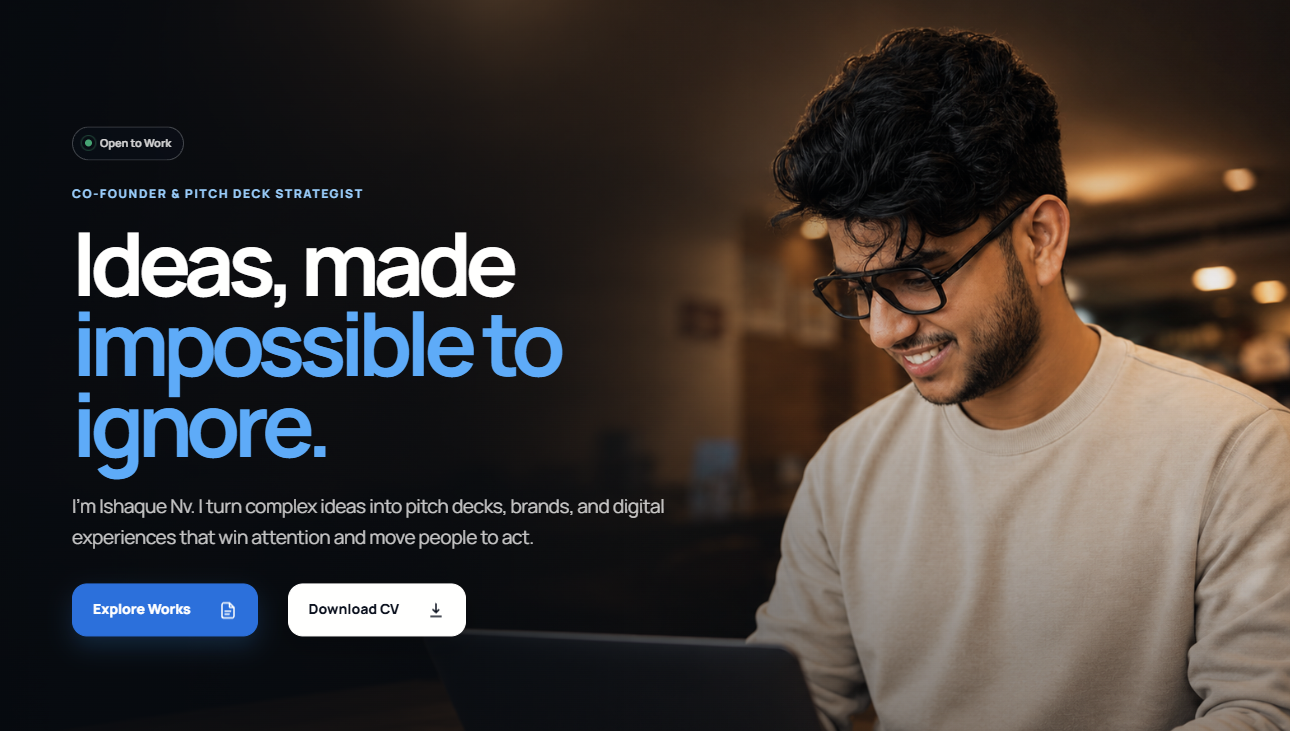
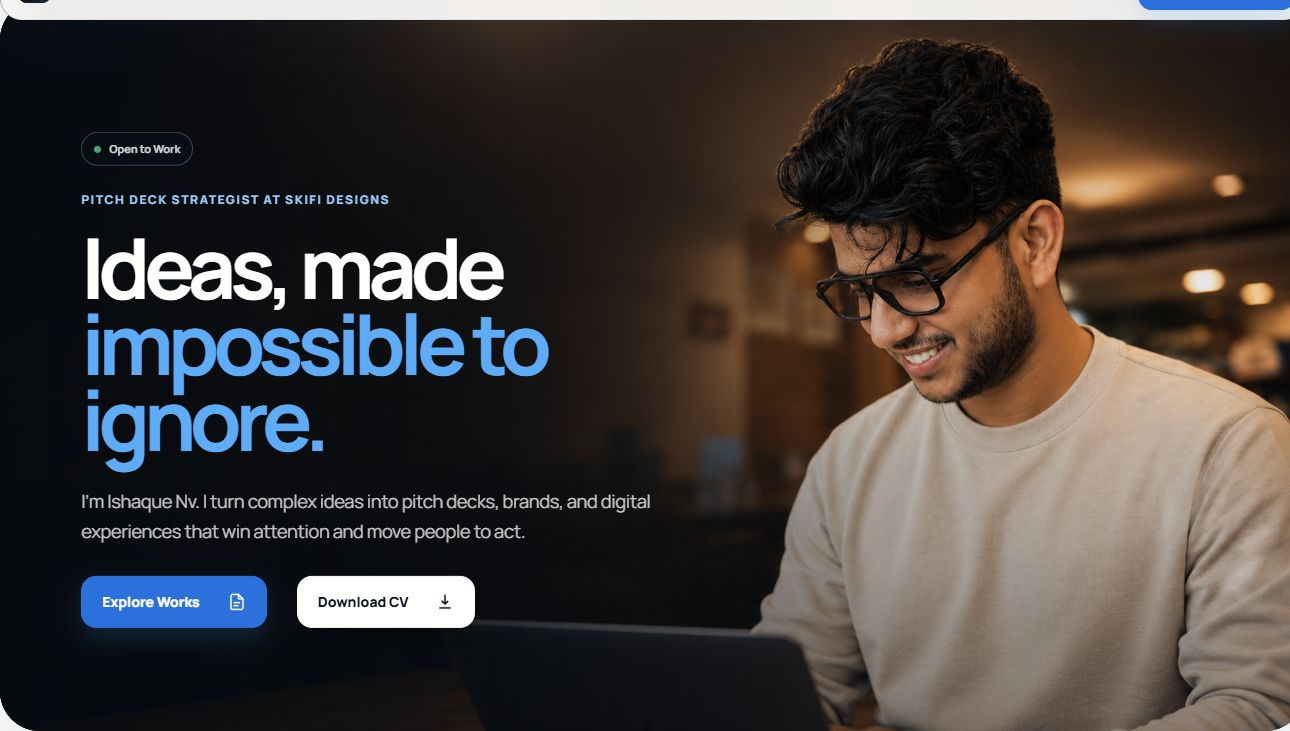
Update portfolio role branding

diff --git a/index.html b/index.html
@@ -11,8 +11,8 @@
   <meta property="og:url" content="https://ishaquenv.com/">
   <meta property="og:title" content="Ishaque Nv. | Designer & Creative Director">
   <meta property="og:description" content="Decks, brands and digital experiences built to win the room.">
-  <meta property="og:image" content="https://ishaquenv.com/assets/portfolio/og-image.png?v=20260823">
-  <meta property="og:image:secure_url" content="https://ishaquenv.com/assets/portfolio/og-image.png?v=20260823">
+  <meta property="og:image" content="https://ishaquenv.com/assets/portfolio/og-image.png?v=20260826">
+  <meta property="og:image:secure_url" content="https://ishaquenv.com/assets/portfolio/og-image.png?v=20260826">
   <meta property="og:image:type" content="image/png">
   <meta property="og:image:width" content="1290">
   <meta property="og:image:height" content="731">
@@ -20,7 +20,7 @@
   <meta name="twitter:card" content="summary_large_image">
   <meta name="twitter:title" content="Ishaque Nv. | Designer & Creative Director">
   <meta name="twitter:description" content="Decks, brands and digital experiences built to win the room.">
-  <meta name="twitter:image" content="https://ishaquenv.com/assets/portfolio/og-image.png?v=20260823">
+  <meta name="twitter:image" content="https://ishaquenv.com/assets/portfolio/og-image.png?v=20260826">
   <meta name="twitter:image:alt" content="Ishaque Nv. with the headline Ideas, made impossible to ignore">
   <title>Ishaque Nv. | Designer & Creative Director</title>
   <link rel="icon" href="/assets/portfolio/ishaque-headshot.jpg" type="image/jpeg">
@@ -75,7 +75,7 @@
         <div class="hero-shade" aria-hidden="true"></div>
         <div class="hero-copy">
           <div class="availability-pill"><span class="pulse" aria-hidden="true"></span> Open to Work</div>
-          <p class="eyebrow">Co-Founder &amp; Pitch Deck Strategist</p>
+          <p class="eyebrow">Pitch Deck Strategist at SkiFi Designs</p>
           <h1 id="hero-title">Ideas, made<br><span class="sky-text">impossible to ignore.</span></h1>
           <p class="hero-lede">I’m Ishaque Nv. I turn complex ideas into pitch decks, brands, and digital experiences that win attention and move people to act.</p>
           <div class="hero-actions">
@@ -181,7 +181,7 @@
         <p class="eyebrow">About Ishaque</p>
         <h2 id="about-title">Clarity is the most persuasive kind of creative.</h2>
         <p class="about-lede">For 7+ years, I’ve helped founders, sales teams and global brands turn dense thinking into visual stories that feel inevitable.</p>
-        <p>I’m the Co-Founder and Art Director of SkiFi Designs, a Fiverr Vetted Pro, and the design partner behind 2,700+ decks. My work sits where business strategy, storytelling and visual craft meet.</p>
+        <p>I’m a Pitch Deck Strategist at SkiFi Designs, a Fiverr Vetted Pro, and the design partner behind 2,700+ decks. My work sits where business strategy, storytelling and visual craft meet.</p>
         <div class="about-links"><a class="text-link" href="https://www.linkedin.com/in/heyzaak/" target="_blank" rel="noreferrer">Connect on LinkedIn <span class="action-icon action-icon-up-right" aria-hidden="true"></span></a><a class="text-link" href="https://skifidesigns.com/" target="_blank" rel="noreferrer">Visit SkiFi Designs <span class="action-icon action-icon-up-right" aria-hidden="true"></span></a></div>
       </div>
     </section>
@@ -192,7 +192,7 @@
         <p>A practice shaped across freelance, in-house and studio leadership, always close to the problem and accountable to the outcome.</p>
       </div>
       <div class="timeline reveal">
-        <article><span class="timeline-date">2026 - Now</span><div><h3>Co-Founder & Art Director</h3><p>SkiFi Designs · Wyoming, USA</p></div><p>Directing storytelling, data visualization and premium creative for startups, agencies and global brands.</p></article>
+        <article><span class="timeline-date">2026 - Now</span><div><h3>Pitch Deck Strategist at SkiFi Designs</h3><p>Wyoming, USA</p></div><p>Directing storytelling, data visualization and premium creative for startups, agencies and global brands.</p></article>
         <article><span class="timeline-date">2025 - Now</span><div><h3>Vetted Pro Designer</h3><p>Fiverr Pro</p></div><p>Part of Fiverr’s most selective tier, delivering investor and business presentations for clients worldwide.</p></article>
         <article><span class="timeline-date">2023 - 2025</span><div><h3>Senior Presentation Design Specialist</h3><p>V360 Group · New Delhi</p></div><p>Partnered with business development teams to turn complex information into clear, on-brand narratives.</p></article>
         <article><span class="timeline-date">2020 - 2023</span><div><h3>Freelance Presentation Designer</h3><p>Fiverr</p></div><p>Built a global creative practice across PowerPoint, Keynote, Figma and the Adobe suite.</p></article>
